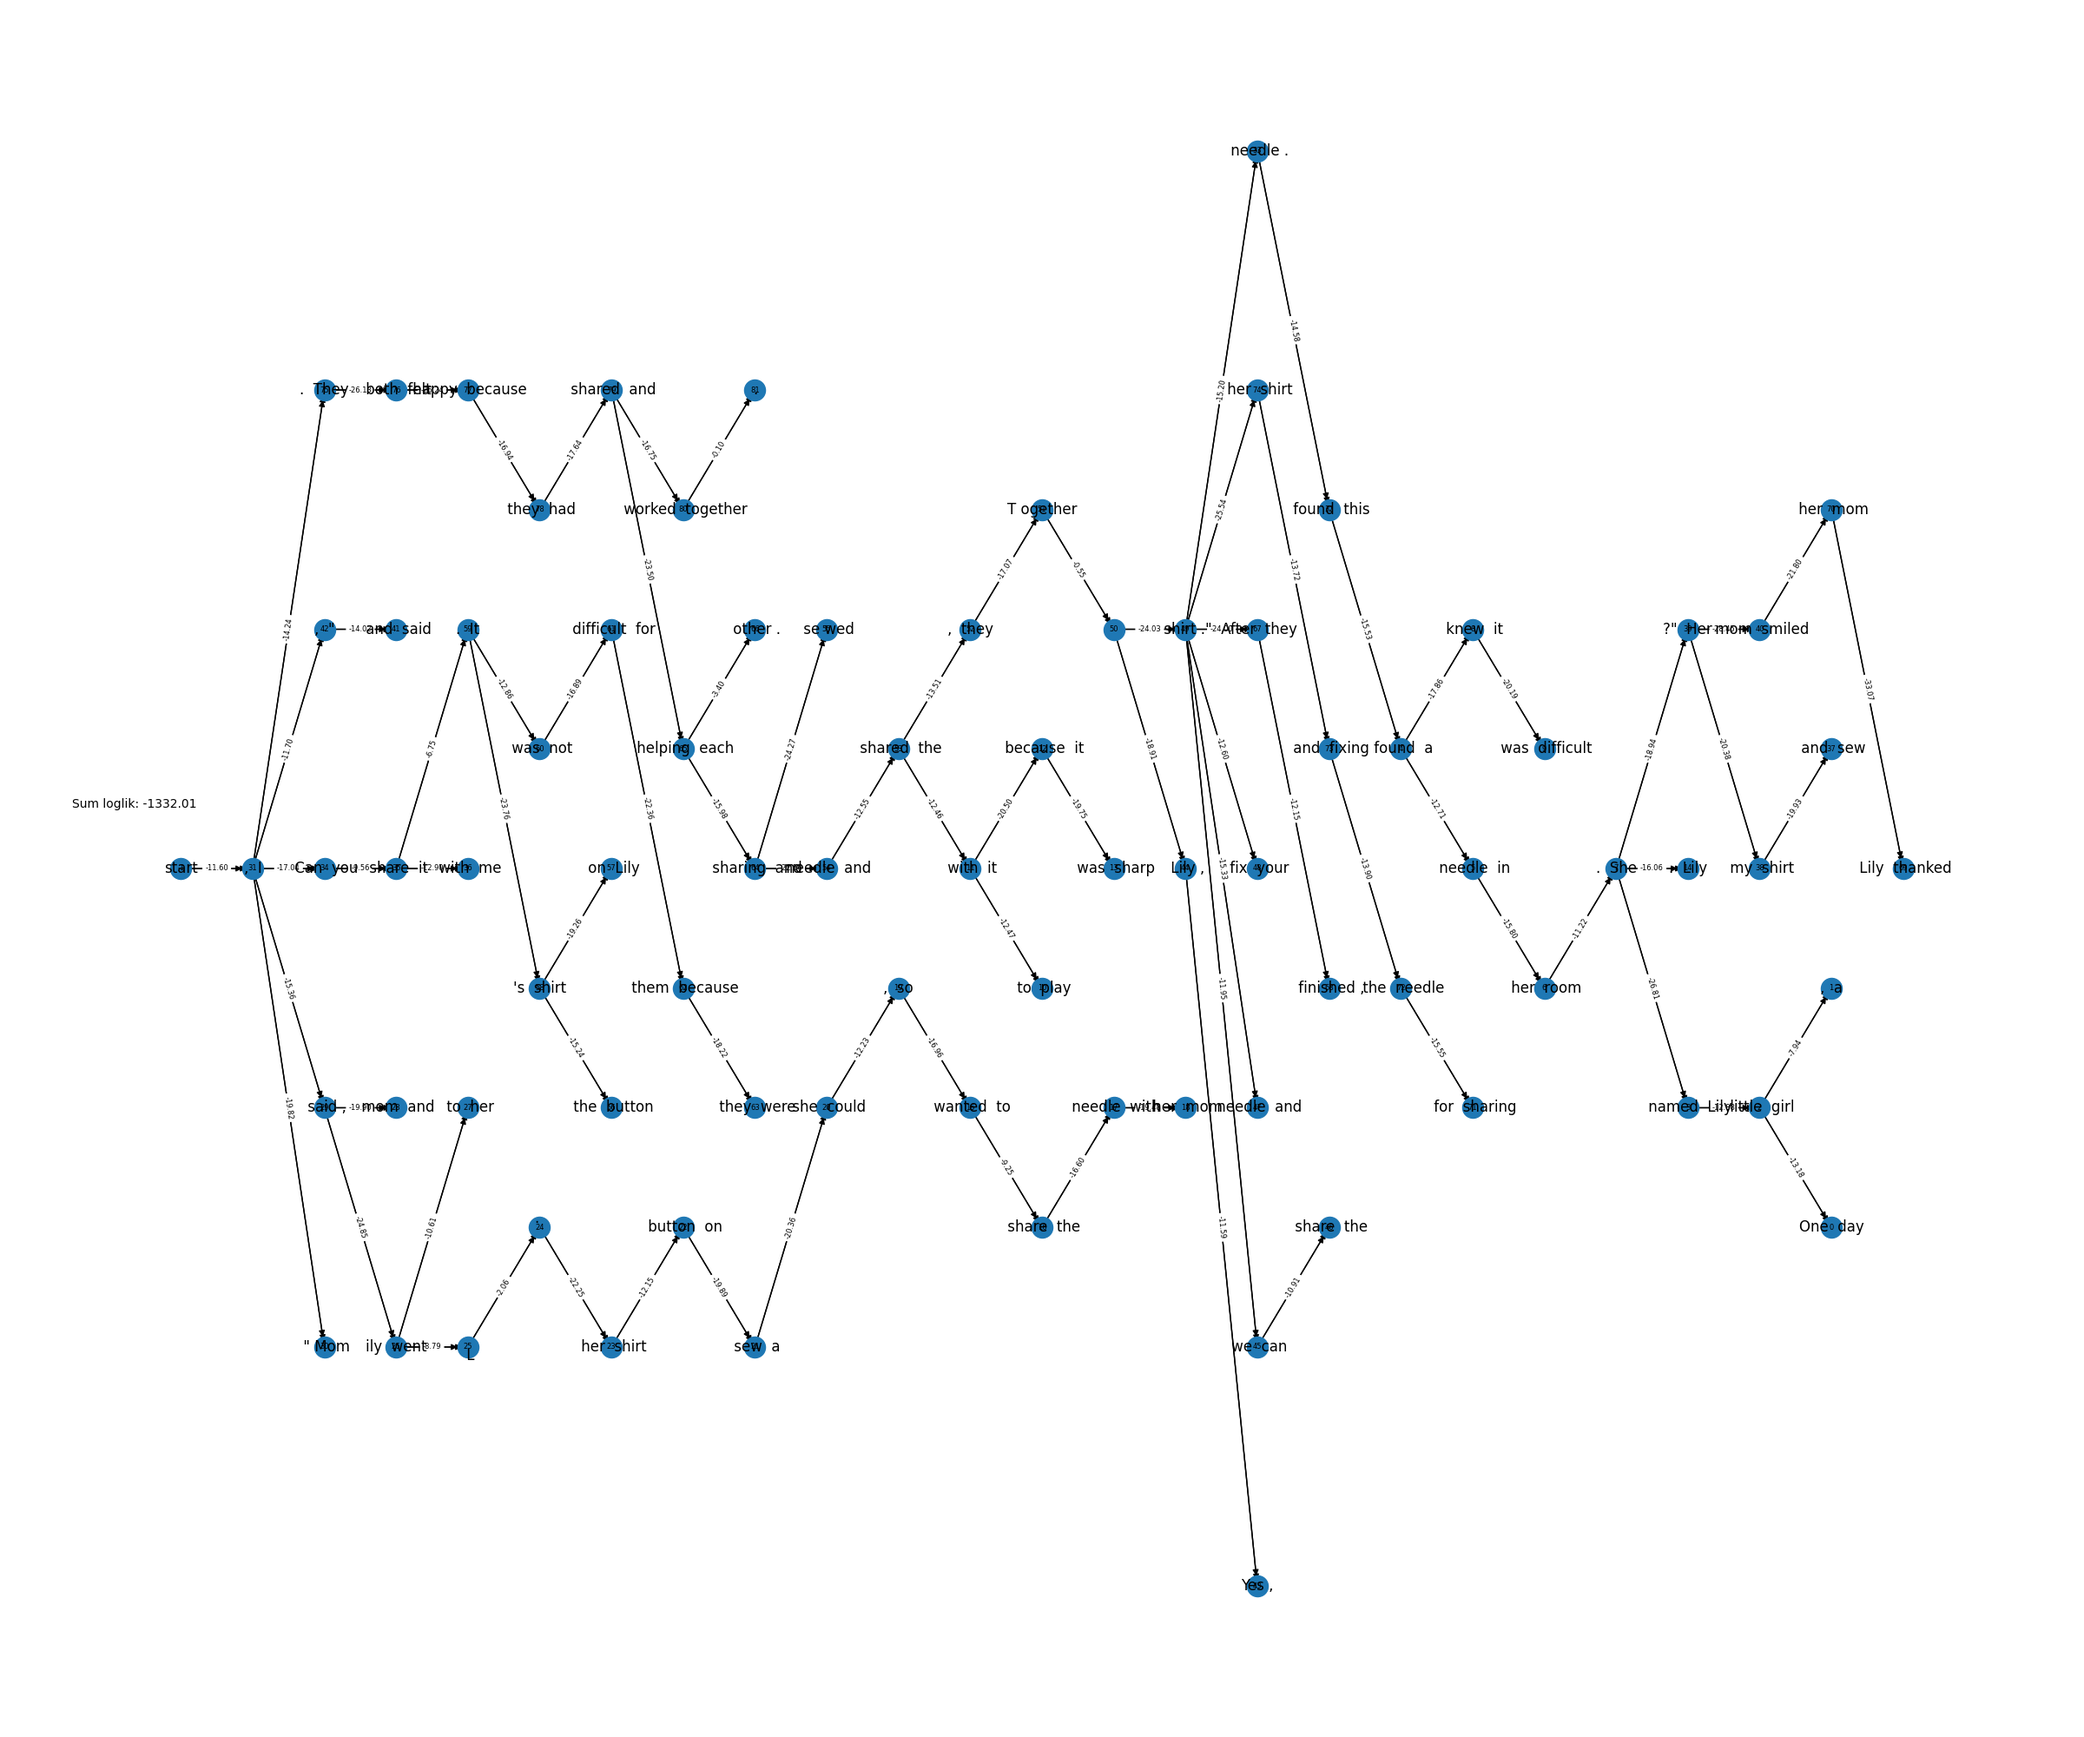
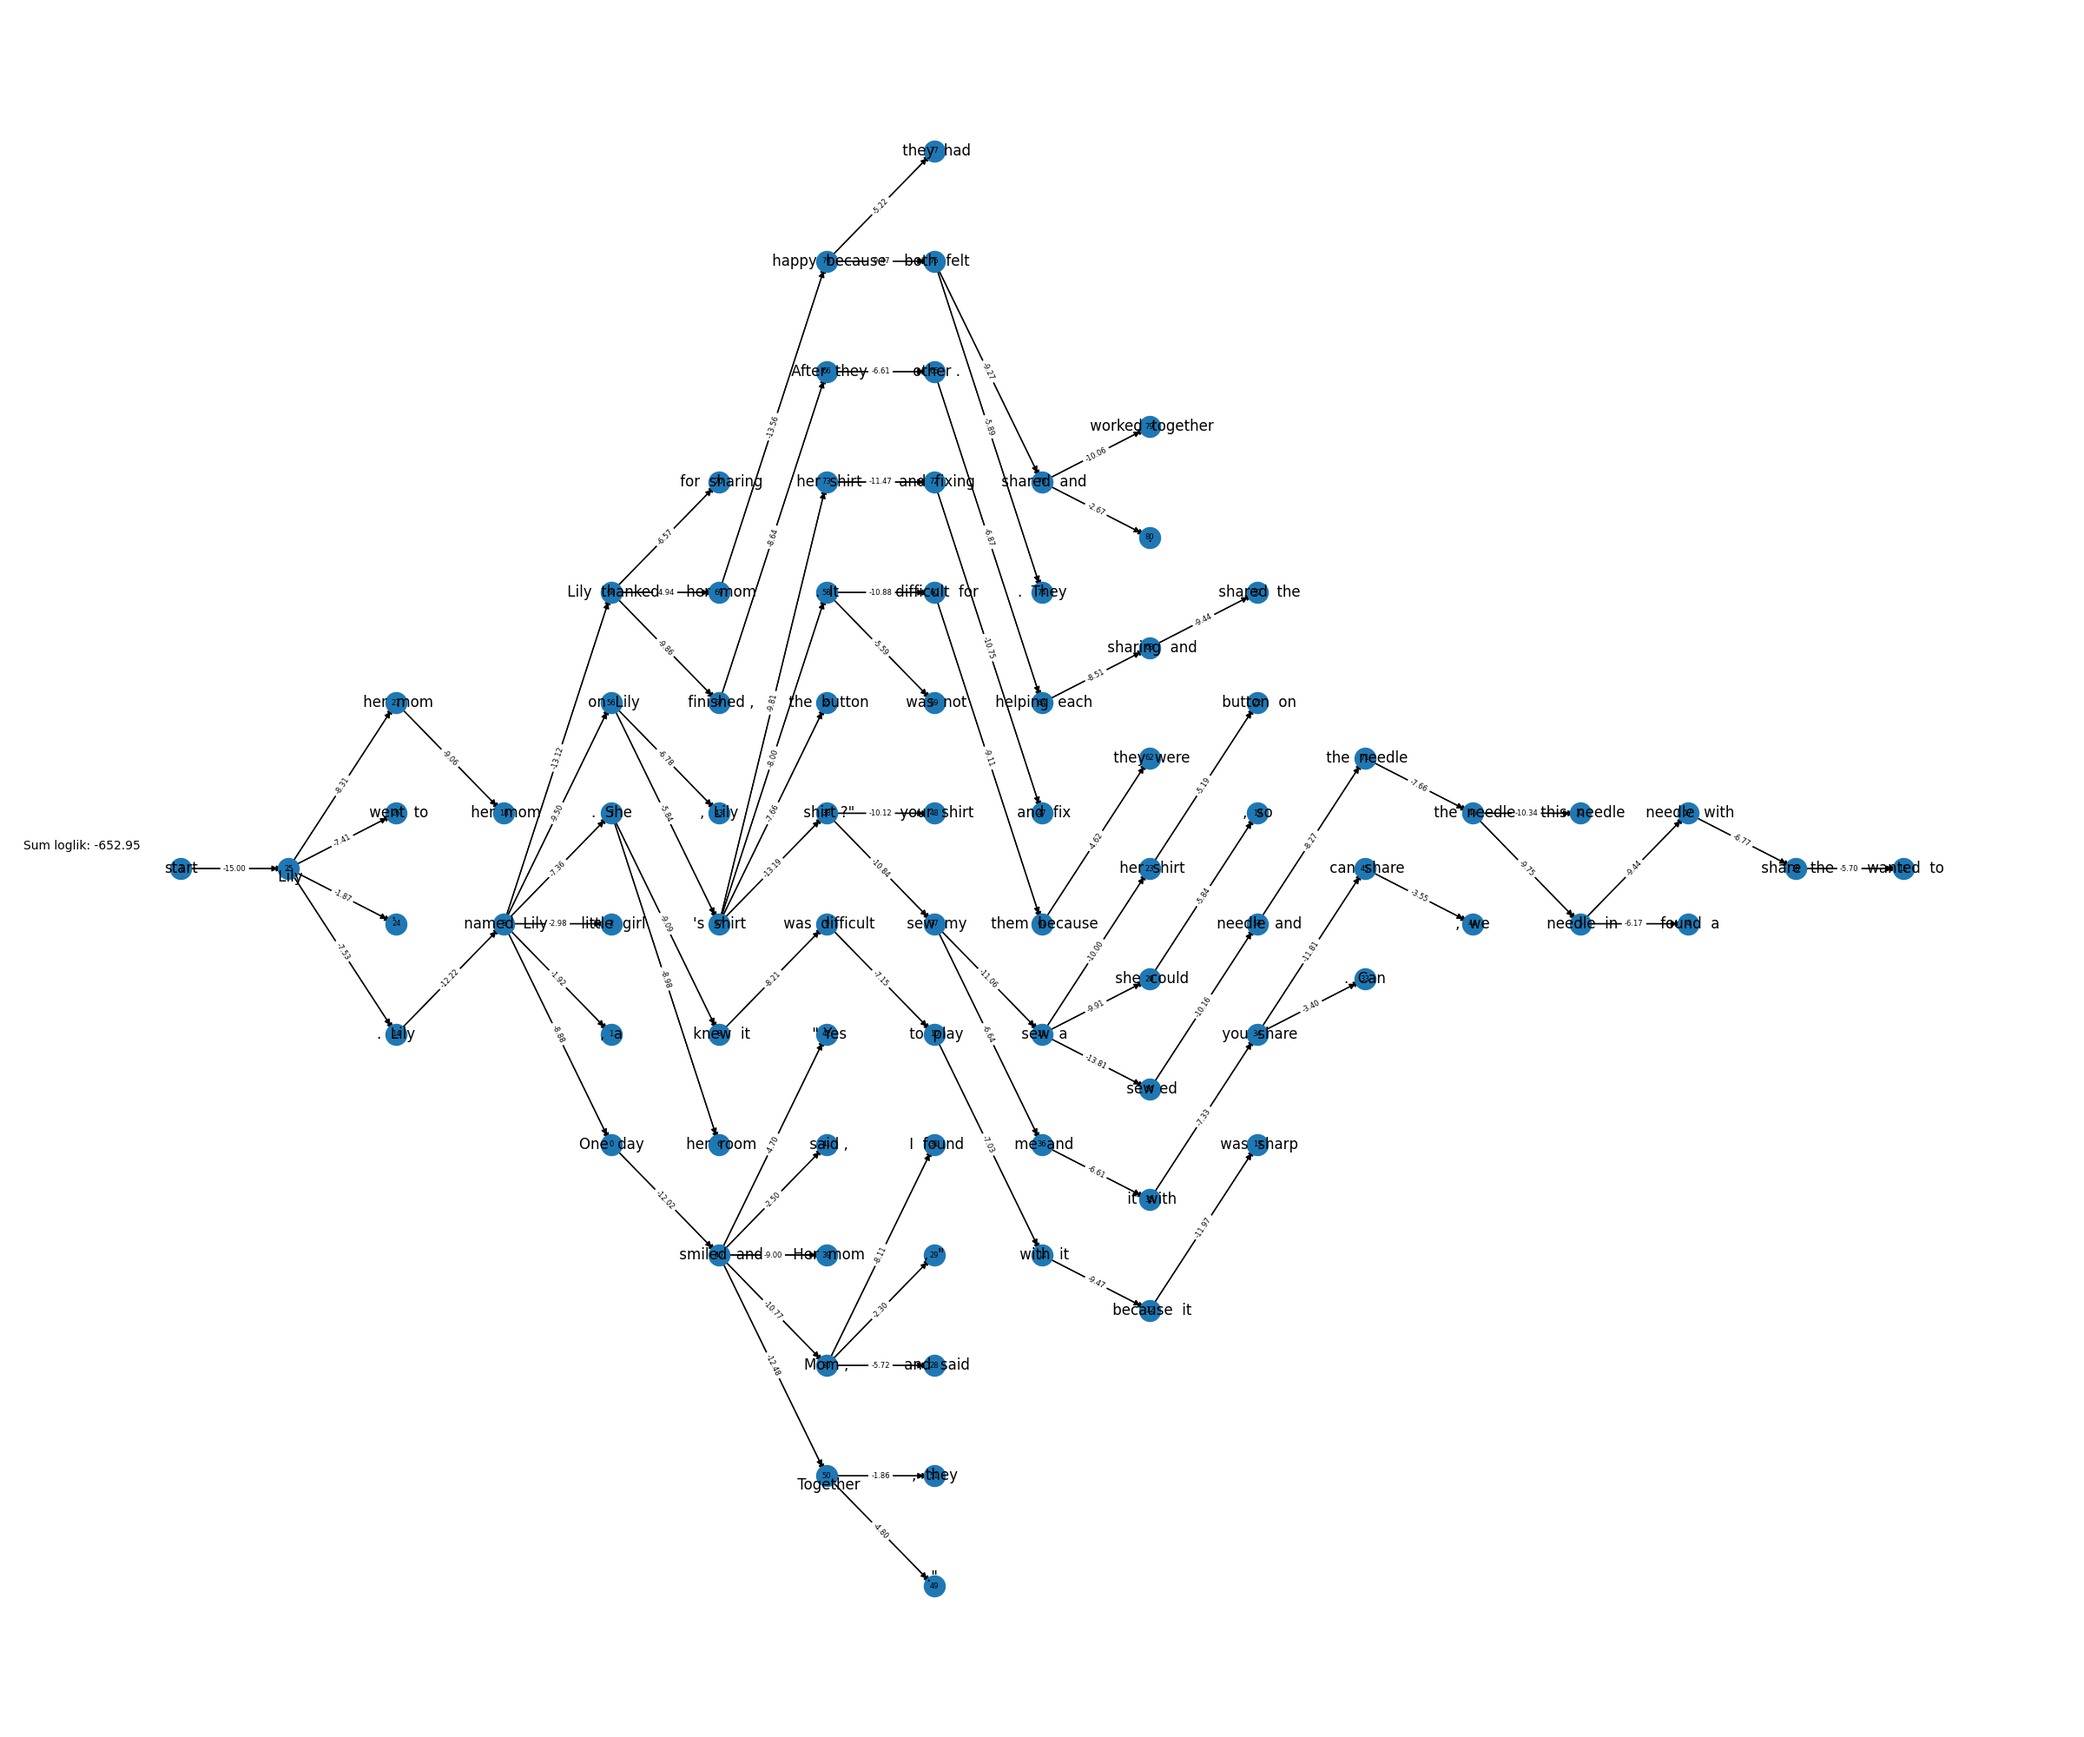
updated code to use LLaDA

diff --git a/optimal_generation.py b/optimal_generation.py
@@ -1,9 +1,7 @@
 import torch
-# modernBert
-from transformers import AutoTokenizer, AutoModelForMaskedLM
 
 # LLaDA-8B
-# from transformers import AutoTokenizer, AutoModelForCausalLM
+from transformers import AutoTokenizer, AutoModel
 
 import networkx as nx
 import matplotlib.pyplot as plt
@@ -13,29 +11,25 @@ from collections import defaultdict
 device = torch.device("cuda" if torch.cuda.is_available() else "cpu")
 # print("cuda available:", torch.cuda.is_available())
 
-# modernBert
-model_id="answerdotai/ModernBERT-base"
-tokenizer=AutoTokenizer.from_pretrained(model_id)
-model=AutoModelForMaskedLM.from_pretrained(model_id)
-model=model.to(device)
 # LLaDA-8B
-# model = AutoModelForCausalLM.from_pretrained("GSAI-ML/LLaDA-8B-Base", trust_remote_code=True, dtype="auto") 
-# tokenizer = AutoTokenizer.from_pretrained("GSAI-ML/LLaDA-8B-Base", trust_remote_code=True)
+model = AutoModel.from_pretrained('GSAI-ML/LLaDA-8B-Base', trust_remote_code=True, torch_dtype=torch.bfloat16).to(device)
+tokenizer = AutoTokenizer.from_pretrained("GSAI-ML/LLaDA-8B-Base", trust_remote_code=True)
+# mask_token_id=126336
 
 from datasets import load_dataset
 ds=load_dataset("roneneldan/TinyStories")
 
 def find_optimal_gen_order(expected_text,blk_sz=2):
     targets=tokenizer(expected_text, return_tensors="pt").input_ids.to(device)
-    targets_main=targets[0][1:-1] # targets_main.shape --> [num of token]
+    targets_main=targets[0][:] # targets_main.shape --> [num of token]
     num_tokens=targets_main.shape[0]
 
     blocks=[list(range(i, min(i+blk_sz, num_tokens))) for i in range(0, num_tokens, blk_sz)]
     num_blocks=len(blocks)
 
     def compute_blk_logprob(input_ids):
-        outputs=model(input_ids=input_ids, labels=targets)
-        logits_main=outputs.logits[0][1:-1][:] # logits_main.shape --> [num of token, vocab size]
+        outputs=model(input_ids)
+        logits_main=outputs.logits[0][:][:] # logits_main.shape --> [num of token, vocab size]
         # compute cross entropy for all tokens at once
         nll=torch.nn.functional.cross_entropy(logits_main, targets_main,reduction='none')
         # transform [num of tokens] to [num of blocks, block size] then sum across columns
@@ -48,7 +42,7 @@ def find_optimal_gen_order(expected_text,blk_sz=2):
 
     # fully masked text
     masked_input_ids=targets.clone()
-    masked_input_ids[0, 1:-1]=tokenizer.mask_token_id
+    masked_input_ids[0][:]=126336 # mask_token_id
     blk_logprob=compute_blk_logprob(masked_input_ids)
     plt.figure(figsize=(24,20))
     G=nx.DiGraph()
@@ -60,7 +54,7 @@ def find_optimal_gen_order(expected_text,blk_sz=2):
     for i in range(num_blocks):
         revealed_input_ids=masked_input_ids.clone()
         for ind in blocks[i]:
-            revealed_input_ids[0][ind+1]=targets[0][ind+1]
+            revealed_input_ids[0][ind]=targets[0][ind]
         blk_logprob=compute_blk_logprob(revealed_input_ids)
         for j,lp in enumerate(blk_logprob):
             if j!=i:
@@ -105,7 +99,7 @@ def find_optimal_gen_order(expected_text,blk_sz=2):
             if n==-1:
                 continue
             for ind in blocks[n]:
-                level_input_ids[0][ind+1]=targets[0][ind+1]
+                level_input_ids[0][ind]=targets[0][ind]
         blk_logprob=compute_blk_logprob(level_input_ids)
         # keep original generation order
         out_edges=mst.out_edges(nodes)
@@ -118,8 +112,11 @@ def find_optimal_gen_order(expected_text,blk_sz=2):
     plt.text(-1, 0.02, f"Sum loglik: {sum(rmb_edge_labels.values()):.2f}", fontsize=10)
     plt.savefig(f"trees/remember_plot_{blk_sz}.png")
 
+    # find loglikelihood of autoaggressive block generation
+    
+
 text=ds["train"][0]["text"]
-# # text="The quick brown fox jumps over the lazy dog today"
+# text="The quick brown fox jumps over the lazy dog today"
 for i in range(2,11,2):
     find_optimal_gen_order(text,i)
 # find_optimal_gen_order(text)
